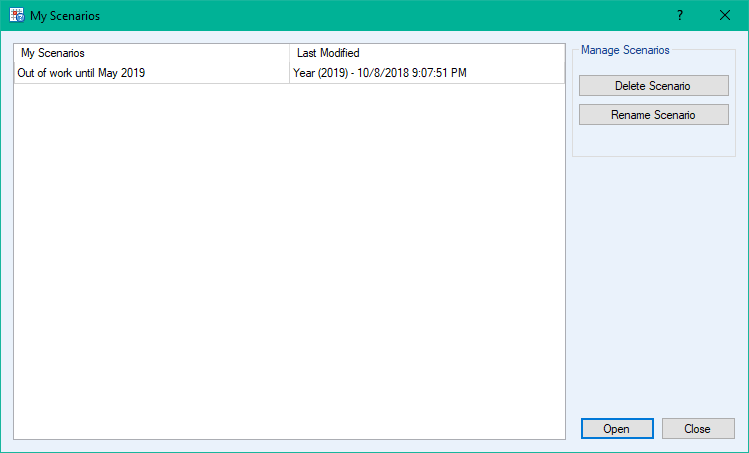
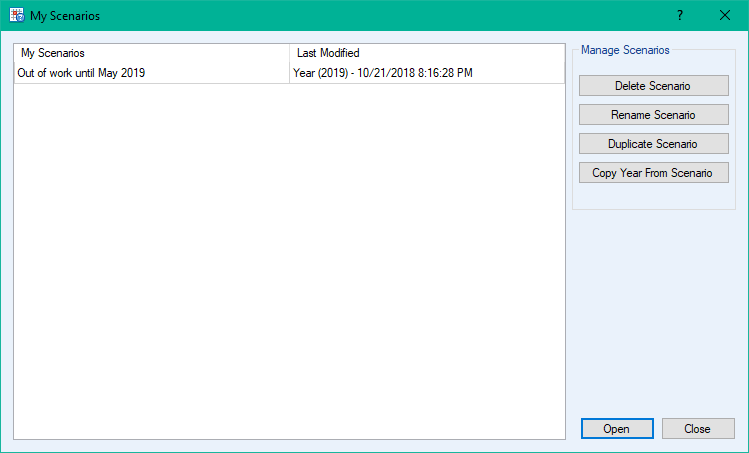
See release notes for v1.6.1

Changed region(s): [[0.7677, 0.2781, 0.9826, 0.4018], [0.4913, 0.1236, 0.6449, 0.1854], [0.9519, 0.4327, 0.9826, 0.4636]]

diff --git a/checkbook_help/my_scenarios.html b/checkbook_help/my_scenarios.html
@@ -49,6 +49,10 @@
             </li>
 		    <li><strong>Rename Scenario</strong>: Allows you to rename a scenario. You can rename the currently open scenario as well.
 		    </li>
+		    <li><strong>Duplicate Scenario</strong>: Allows you to create a copy of a scenario with a new name.
+		    </li>
+		    <li><strong>Copy Year From Scenario</strong>: Allows you to copy a year from one scenario to another.
+		    </li>
 			<li><strong>Open Scenario</strong>: Opening a scenario will prompt you with the window below. Select the year you want to open your scenario to and the data will be loaded.
 		    <img class="center_img" src="Images/open_scenario.png" hspace="10"/>
 			</li>
